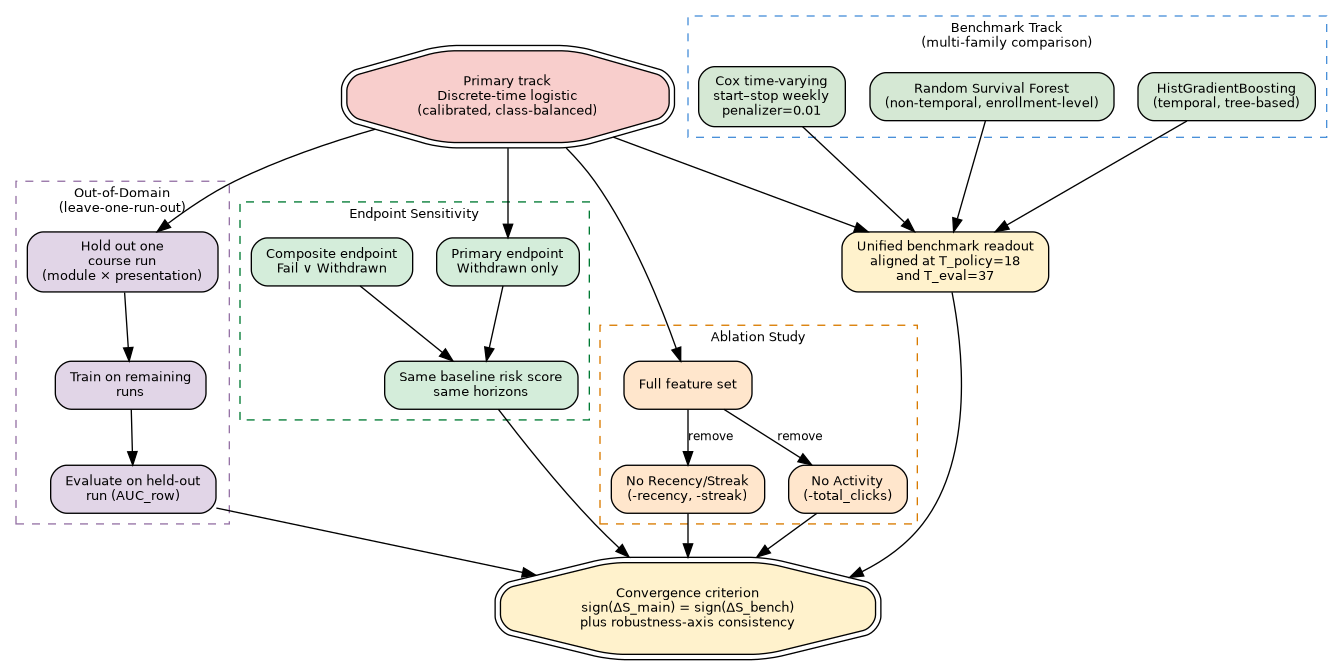
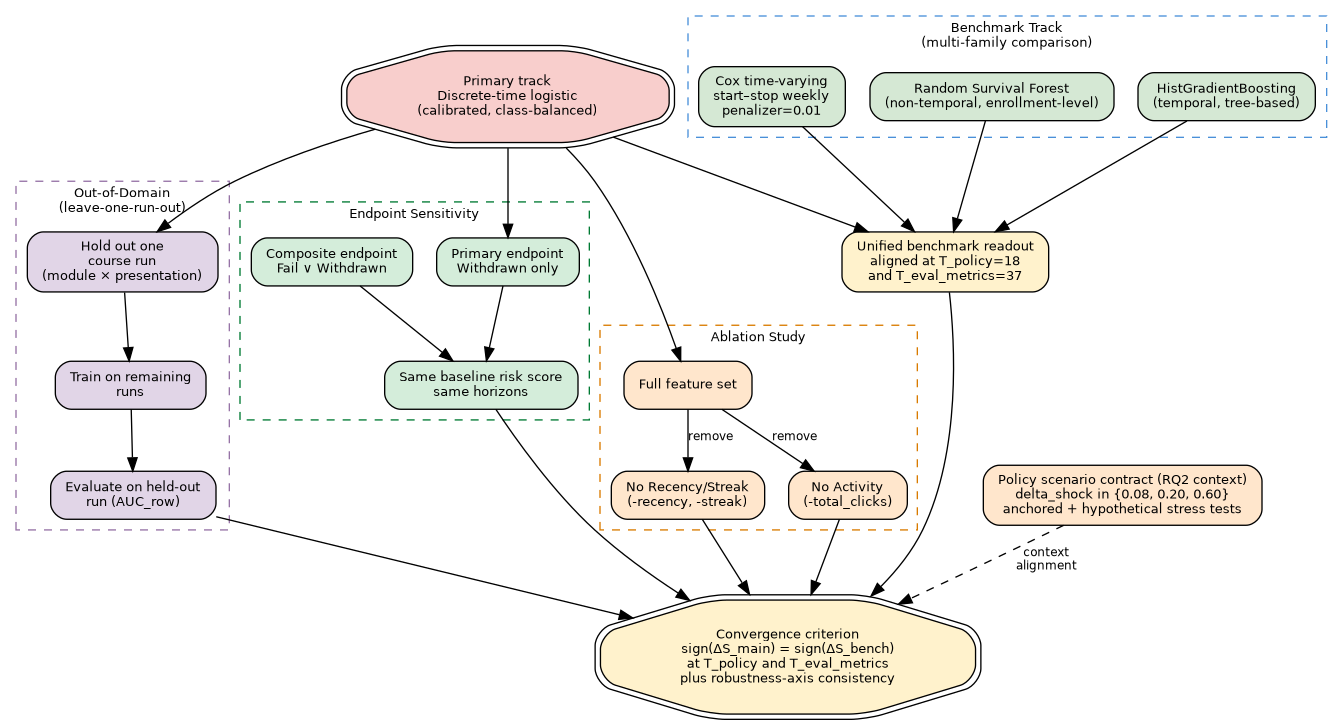
commit

diff --git a/experimental_design_body.tex b/experimental_design_body.tex
@@ -11,7 +11,7 @@ Figure~\ref{fig:pipeline_endtoend} provides an end-to-end overview of the evalua
 \begin{figure}[!t]
 \centering
 \includegraphics[width=\columnwidth]{figures/fig_pipeline_endtoend.png}
-\caption{End-to-end pipeline: data integration, temporal construction, modeling, policy simulation, and fairness evaluation mapped to the seven executable tracks and the three research questions.}
+\caption{End-to-end pipeline: data integration, temporal construction, modeling, policy simulation, and fairness evaluation mapped to seven executable tracks and RQ1--RQ3, including dual-horizon semantics ($T_{policy}$, $T_{eval\_policy}$, $T_{eval\_metrics}$) and scenario-indexed shock intensity in RQ2.}
 \label{fig:pipeline_endtoend}
 \end{figure}
 
@@ -165,7 +165,7 @@ Because censoring support deteriorates over time, late-horizon evaluation requir
 \begin{figure}[!t]
 \centering
 \includegraphics[width=\columnwidth]{figures/fig_censoring_dual_horizons.png}
-\caption{Censoring-aware evaluation flow: the conditional censoring model determines IPCW weights and horizon stability, yielding two distinct reporting horizons.}
+\caption{Censoring-aware evaluation flow: the conditional censoring model determines IPCW weights and horizon stability, separating $T_{eval\_metrics}=37$ for weighted metrics from $T_{eval\_policy}=38$ for raw policy trajectories, with $T_{policy}=18$ as the substantive reporting horizon.}
 \label{fig:censoring_dual_horizons}
 \end{figure}
 
@@ -348,7 +348,7 @@ The robustness plan was defined before examining comparative outcomes. Its purpo
 \begin{figure}[!t]
 \centering
 \includegraphics[width=\columnwidth]{figures/fig_benchmark_robustness.png}
-\caption{Benchmark and robustness battery: the primary model is compared against alternative families (benchmark), feature subsets (ablation), unseen course runs (OOD), and an alternative endpoint (sensitivity). All axes feed a sign-consistency convergence criterion.}
+\caption{Benchmark and robustness battery: the primary model is compared against alternative families (benchmark), feature subsets (ablation), unseen course runs (OOD), and an alternative endpoint (sensitivity), with convergence read at $T_{policy}$ and $T_{eval\_metrics}$ and interpreted under the scenario-aware RQ2 policy contract.}
 \label{fig:benchmark_robustness}
 \end{figure}
 

diff --git a/results_body.tex b/results_body.tex
@@ -312,7 +312,7 @@ The fairness interpretation pipeline is summarized in Figure~\ref{fig:fairness_p
 \begin{figure}[!t]
 \centering
 \includegraphics[width=0.45\textwidth]{figures/fig_fairness_pipeline.png}
-\caption{Fairness/subgroup pipeline used in RQ3. It links groupwise survival aggregation, change-in-gap computation, and bootstrap uncertainty into a single interpretation flow.}
+\caption{Fairness/subgroup pipeline used in RQ3. It links groupwise survival aggregation, change-in-gap computation, and bootstrap uncertainty for a selected policy scenario under the shared trigger contract.}
 \label{fig:fairness_pipeline_graph}
 \end{figure}
 
@@ -326,7 +326,7 @@ The fairness interpretation pipeline is summarized in Figure~\ref{fig:fairness_p
 \begin{figure}[!t]
 \centering
 \includegraphics[width=0.45\textwidth]{figures/fig_rq3_gap_Teval.png}
-\caption{RQ3 gap result at $T_{eval}=37$. Consistency with $T_{policy}$ is part of the robustness readout.}
+\caption{RQ3 gap result at $T_{eval\_metrics}=37$. Consistency with $T_{policy}$ is part of the robustness readout.}
 \label{fig:rq3_gap_teval}
 \end{figure}
 
